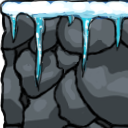
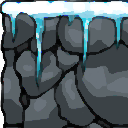
Changed some textures with pixal filter

diff --git a/src/scenes/WurmLevel.ts b/src/scenes/WurmLevel.ts
@@ -41,7 +41,7 @@ export default class WurmLevel extends Phaser.Scene {
 
         //create platforms
         this.platforms = this.physics.add.staticGroup()
-        const ground = this.platforms.create(50, this.heightBounds, 'stoneGround') as Phaser.Physics.Arcade.Sprite // spawn ground 
+        const ground = this.platforms.create(50, this.heightBounds, 'stoneground5') as Phaser.Physics.Arcade.Sprite // spawn ground 
 
         ground
         .setScale(1)

diff --git a/src/scenes/iceWorld.ts b/src/scenes/iceWorld.ts
@@ -337,7 +337,7 @@ export default class WurmLevel extends Phaser.Scene {
         //create camera
         this.cameras.main.setBounds(0, 0, this.widthBounds, this.heightBounds, false);
         this.cameras.main.startFollow(this.player, true)
-        this.cameras.main.setZoom(1.5)
+        this.cameras.main.setZoom(1.2)
 
     }
 

diff --git a/src/players/worm.ts b/src/players/worm.ts
@@ -51,7 +51,7 @@ export default class Worm extends Phaser.Physics.Arcade.Sprite {
         {
              this.setVelocityY(-360)
              this.scene.sound.play('playerJump', {
-                 volume: 0.5
+                 volume: 0.1
              })
         }
     }
